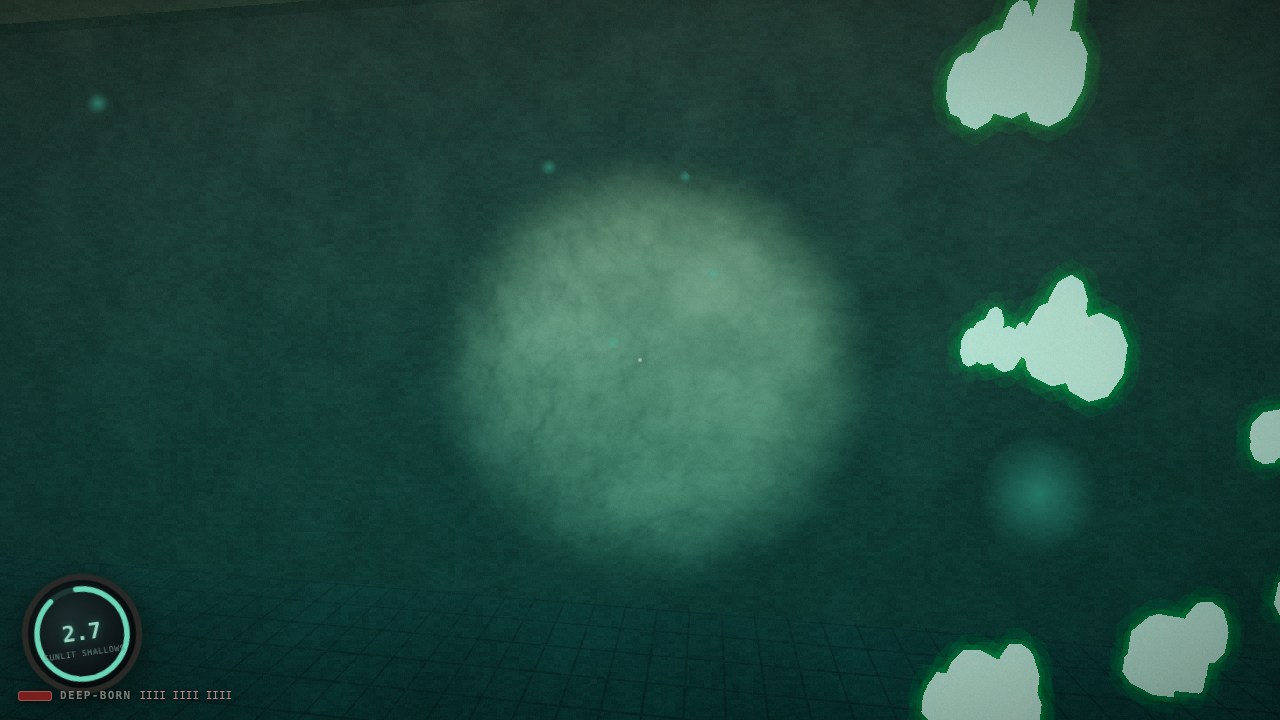
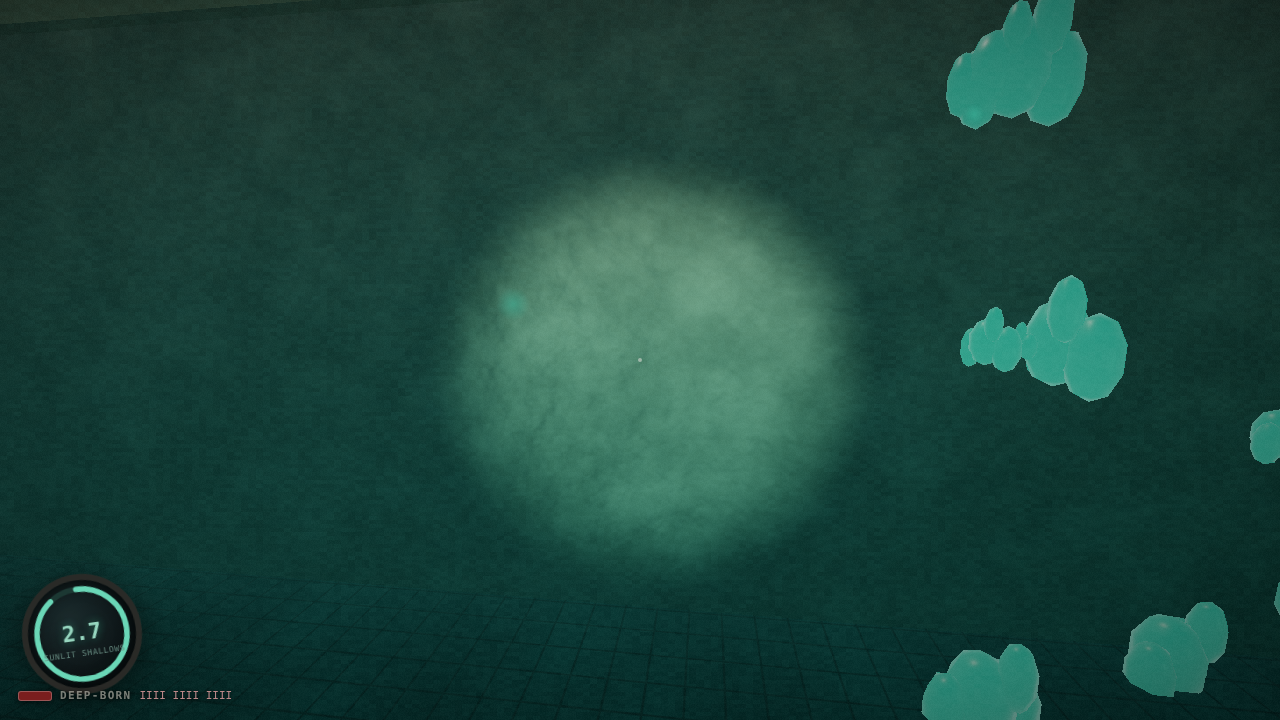
drowned-earth: polish pass 2 (festival lantern ages, audio silence + water steps + hull creaks, screenshot staging), final PROGRESS report
Claude-Session: https://claude.ai/code/session_01ULcSdNPKB7gXcyoxvfvEui

diff --git a/drowned-earth/src/raft/RaftCommunity.js b/drowned-earth/src/raft/RaftCommunity.js
@@ -224,7 +224,7 @@ function setupFestival(ctx, cdef, main, group, interactables) {
   for (let i = 0; i <= n; i++) {
     const h = new THREE.Sprite(ctx.fx.glowMaterial); h.scale.setScalar(2.4); h.layers.set(LAYER_FX); h.visible = false; group.add(h); halos.push(h);
   }
-  const state = Array.from({ length: n + 1 }, (_, i) => ({ born: -1, a: -Math.PI * 0.5 + ((i / n) - 0.5) * Math.PI * 1.4 + Math.random() * 0.3, sp: 0.07 + Math.random() * 0.12, pos: new THREE.Vector3() }));
+  const state = Array.from({ length: n + 1 }, (_, i) => ({ born: null, a: -Math.PI * 0.5 + ((i / n) - 0.5) * Math.PI * 1.4 + Math.random() * 0.3, sp: 0.07 + Math.random() * 0.12, pos: new THREE.Vector3() }));
   let released = 0, mine = false;
   const m = new THREE.Matrix4(), q = new THREE.Quaternion(), s = new THREE.Vector3();
   const active = () => { const h = ctx.time.hour; return h >= f.from && h < f.to; };
@@ -254,9 +254,9 @@ function setupFestival(ctx, cdef, main, group, interactables) {
       const center = _v.set(f.center[0], 0, f.center[1]).applyMatrix4(main.root.matrixWorld).clone();
       if (on && released === 0) { const into = Math.min(1, (ctx.time.hour - f.from) / 0.6); const k = Math.floor(n * 0.8 * into); for (; released < k; released++) { state[released].born = now - Math.random() * 140; state[released].pos.copy(center); } }
       if (on && released < n && Math.random() < dt * 0.9) { const st = state[released++]; st.born = now; st.pos.copy(center); }
-      if (!on && released > 0 && ctx.time.hour > f.to) { released = 0; mine = false; state.forEach((st) => (st.born = -1)); }
+      if (!on && released > 0 && ctx.time.hour > f.to) { released = 0; mine = false; state.forEach((st) => (st.born = null)); }
       state.forEach((st, i) => {
-        const alive = st.born >= 0 && now - st.born < 900;
+        const alive = st.born !== null && now - st.born < 900;
         halos[i].visible = alive && ctx.time.out.night > 0.1;
         if (!alive) { m.makeScale(0, 0, 0); boats.setMatrixAt(i, m); return; }
         const age = now - st.born;
@@ -269,7 +269,7 @@ function setupFestival(ctx, cdef, main, group, interactables) {
         halos[i].material.opacity = Math.min(1, ctx.time.out.night * 1.5);
       });
       boats.instanceMatrix.needsUpdate = true;
-      paper.color.setRGB(1, 0.62, 0.32).multiplyScalar(0.4 + ctx.time.out.night * 1.6);
+      paper.color.setRGB(1, 0.62, 0.32).multiplyScalar(0.3 + ctx.time.out.night * 0.8);
     },
     dispose: () => {},
   };

diff --git a/drowned-earth/src/audio/AudioEngine.js b/drowned-earth/src/audio/AudioEngine.js
@@ -186,6 +186,8 @@ export class AudioEngine {
     const rpm = piloting && !boat.paddling && !boat.engineOff ? 0.2 + Math.abs(boat.throttle) : 0;
     this.engine.setRpm(rpm, boat.pos.distanceTo(cam.position));
     if (piloting && (boat.paddling || boat.engineOff) && Math.abs(boat.throttle) > 0.2) { this.paddleT = (this.paddleT || 0) - dt; if (this.paddleT <= 0) { this.paddleT = 1.1; this.synth.splash(this.panner(boat.pos.clone(), 2, 1), 0.3); } }
+    // the hull creaks harder the faster you push it
+    if (piloting && boat.speed > 2.5) { this.hullT = (this.hullT || 0) - dt * boat.speed * 0.15; if (this.hullT <= 0) { this.hullT = 2 + Math.random() * 3; this.synth.ropeCreak(this.panner(boat.pos.clone(), 2, 1.5)); } }
     // occasional far sounds
     const T = this.timers;
     T.foghorn -= dt; T.moan -= dt; T.gull -= dt;
@@ -219,6 +221,14 @@ export class AudioEngine {
     if (C[type] && d < 120) this.game.ctx.events.emit('caption', C[type]);
   }
   loudspeaker(pos, dur) { if (this.started) { this.synth.voice(this.panner(pos.clone().setY(3), 30, 0.6), dur, 0.75, true); this.cap('loudspeaker'); } }
+  // Drop everything but the deepest sounds for a moment before something big.
+  silence(sec = 3) {
+    if (!this.started) return;
+    const t = this.ac.currentTime;
+    this.world.gain.cancelScheduledValues(t);
+    this.world.gain.setTargetAtTime(0.08, t, 0.4);
+    this.world.gain.setTargetAtTime(1, t + sec, 1.5);
+  }
   // ---- one-shots ----
   play(name, opts = {}) {
     if (!this.started) return;

diff --git a/drowned-earth/src/player/Player.js b/drowned-earth/src/player/Player.js
@@ -83,7 +83,7 @@ export class Player {
         const hs = Math.hypot(this.velocity.x, this.velocity.z);
         this.stepDist += hs * dt;
         this.bobPhase += hs * dt * 2.1;
-        if (this.stepDist > (sprint ? 1.6 : 1.25)) { this.stepDist = 0; this.ctx.events.emit('footstep', { pos: this.position, surface: this.groundTag, speed: hs }); }
+        if (this.stepDist > (sprint ? 1.6 : 1.25)) { this.stepDist = 0; this.ctx.events.emit('footstep', { pos: this.position, surface: this.position.y < surface + 0.12 ? 'water' : this.groundTag, speed: hs }); }
         if (this.position.y > surface + 0.2 && !this.groundBody) this.lastSafe.copy(this.position);
       }
       if (this.position.y < -200) this.teleport(this.lastSafe);

diff --git a/drowned-earth/src/audio/Synth.js b/drowned-earth/src/audio/Synth.js
@@ -219,6 +219,7 @@ export class Synth {
   }
   step(dest, surface, speed) {
     const ac = this.ac, t = ac.currentTime;
+    if (surface === 'water') { this.splash(dest, 0.18 + speed * 0.03); return; }
     const s = this.src(surface === 'metal' ? 'white' : 'pink', t, 0.15);
     const conf = { metal: ['bandpass', 2400, 6, 0.25], wood: ['bandpass', 400, 2, 0.35], concrete: ['bandpass', 1100, 1, 0.2], solid: ['bandpass', 1100, 1, 0.2] }[surface] || ['bandpass', 900, 1, 0.2];
     const g = this.gain(); this.env(g, t, 0.004, conf[3] * (0.6 + speed * 0.12), surface === 'metal' ? 0.12 : 0.07);

diff --git a/drowned-earth/src/story/Story.js b/drowned-earth/src/story/Story.js
@@ -87,6 +87,7 @@ export class Story {
     if (this.finale || this.flag('finale_done')) return;
     const ctx = this.ctx;
     this.finale = { t: 0 };
+    ctx.audio?.silence(3);
     ctx.events.emit('gulls:silence');
     ctx.ui.whisper(ctx.player.headUnder ? 'Far below you, in the black, something begins to click.' : 'You lower the hydrophone into the black water. The cable runs out and keeps going.');
     ctx.audio?.play('hydrophone');

diff --git a/drowned-earth/PROGRESS.md b/drowned-earth/PROGRESS.md
@@ -38,3 +38,41 @@ Overnight build log. Newest stage at the bottom of "Stages"; final report at the
 - **Debug panel** (\` or `?debug=1`): FPS, draw calls, triangles, memory, time, weather, Standing, heat, glow, patrol state, position; teleport to every landmark; time/weather/heat/scrap/glow/tier/finale buttons.
 - **Onboarding**: no text dump; one-time context hints that adapt to touch or keyboard (look, climb in, stairs, dive, flashlight, board, steer, Standing, patrols, photo/journal). Help page holds all controls.
 - **Lens & post**: droplets on the lens after surfacing and in rain, condensation at the edges when cold, tunnel vision on low air, soft bloom on lanterns and the Beacon, film grain (all behind the "Film grain & lens effects" option).
+
+### Extras from the expansion packs (small, real versions)
+- **Messages in bottles** (`world/Bottles.js`, `data/bottles.json`): seven bottles drift in the district. When a life in the life sim ends, its epitaph is set adrift and washes up in later story playthroughs.
+- **Memory pool** in the Cask Street tunnels: touch the warm water, hear the last tram, in a sepia-blue filter.
+- **Companion gull**: share fish with the bent-winged gull and it rides your bow; it flies off near the Deep.
+- **Daily tide**: a date-seeded life ("Today's tide") so everyone can live the same life on the same day.
+- **Gamepad** (standard mapping), **haptics** on phones (impacts, tremors, blackout), **save export/import** (pause menu), **content packs** (`src/mods/*.json` merged at boot, with an example pack).
+- `data/roadmap.json` documents every stubbed system and the code hook it plugs into (Tide Clock, star navigation, Voice of the Deep, rituals, memory dives, Long Dark Night, ghost rafts, crews and boat classes, player rafts, societies, justice, NG+, cloud save, key rebinding).
+
+### Polish passes
+1. Fixed: boat teleporting 13 km on spawn inside a building (hull push-out bug), the far layer (Highmark) showing through from underwater, splash particles reading as smoke columns, underwater light shafts radiating from the floor and showing in tunnels, the title logo clipping, HUD showing over the title, patrol beam washing out the screen in fog, lanternfish too small to see, the glow material blowing out to white, festival lanterns drifting too far too fast, raft-city shot positions, the start view facing the tower wall.
+2. Performance: growth instances drawn only up to the visible count (1.0M → 0.35M triangles at the title), small props on a detail layer skipped by the reflection pass, instanced props don't cast shadows. Audio: water footsteps in shallows, hull creaks with speed, a 3-second silence before the finale.
+
+## Decisions (and why)
+- **Story mode and life sim are two doors into one world.** The 3D stage is the immersive slice; the life sim is the long arc. Scenes launched from the life sim snapshot and restore the 3D world so neither corrupts the other's save, while both live in one versioned save file.
+- **Seeded everything.** World chunks, loot, lives and the daily tide all derive from seeds, so content is reproducible for testing and shareable as a seed.
+- **Standing is data, consulted everywhere** (docks, prices, dialogue, NPC distance, patrol behaviour), so new tiers or rules are a JSON change.
+- **Listeners hunt by sound only, and contact is dread, not damage.** It keeps the tone guardrails (no gore, no cheap scares) while making noise a real choice.
+- **Kept the 3D cost bounded on phones**: low quality skips reflections, shadows and the HDR pipeline (≈110–250 draw calls); desktop medium/high spend it on reflections.
+- **Hand-drawn chart without real handwriting fonts**: the chart uses cursive fallbacks; it reads as hand-lettered on most systems.
+- Kept the name **Highmark** (the bible uses it). The lighthouse is **The Beacon**.
+
+## Known issues
+- Frame rate was only measured in headless software rendering (~1–10 fps there). Real-device FPS still needs checking; low quality is the phone default.
+- The life sim has 156+ cards; long lives can see a few repeat career cards. More content is the main lever.
+- NPCs and buildings are stylised low-poly; faces are minimal by design but read as blank at very close range.
+- The patrol pathing is straight-line with collision push-out; it can scrape along buildings in tight streets.
+- Rope-bridge collision is a flat walkable strip; the visible sag means feet float a few centimetres at mid-span.
+- Some interactions (climbing out onto rafts from the water) need you to swim straight at the deck edge.
+- Sounds were verified to play without errors but were not listened to by ear in this environment.
+
+## Next steps
+1. Act 2 (Greentide) and a larger map: stream a second district and a Greentide raft city using the existing generators and raft data.
+2. Player raft building on top of `Raft.addPiece()`; boat classes and crew.
+3. The Voice of the Deep hydrophone decoding mini-game (unlocks ending d).
+4. More life-sim content (target 500+ cards), relationships with memory of specific deeds, NPCs from the bible appearing as recurring characters across lives.
+5. Real-device profiling pass (mid-range Android, iPhone) and a dynamic resolution scaler.
+6. Rebindable keys UI, controller glyphs, localisation pipeline for the JSON text.
